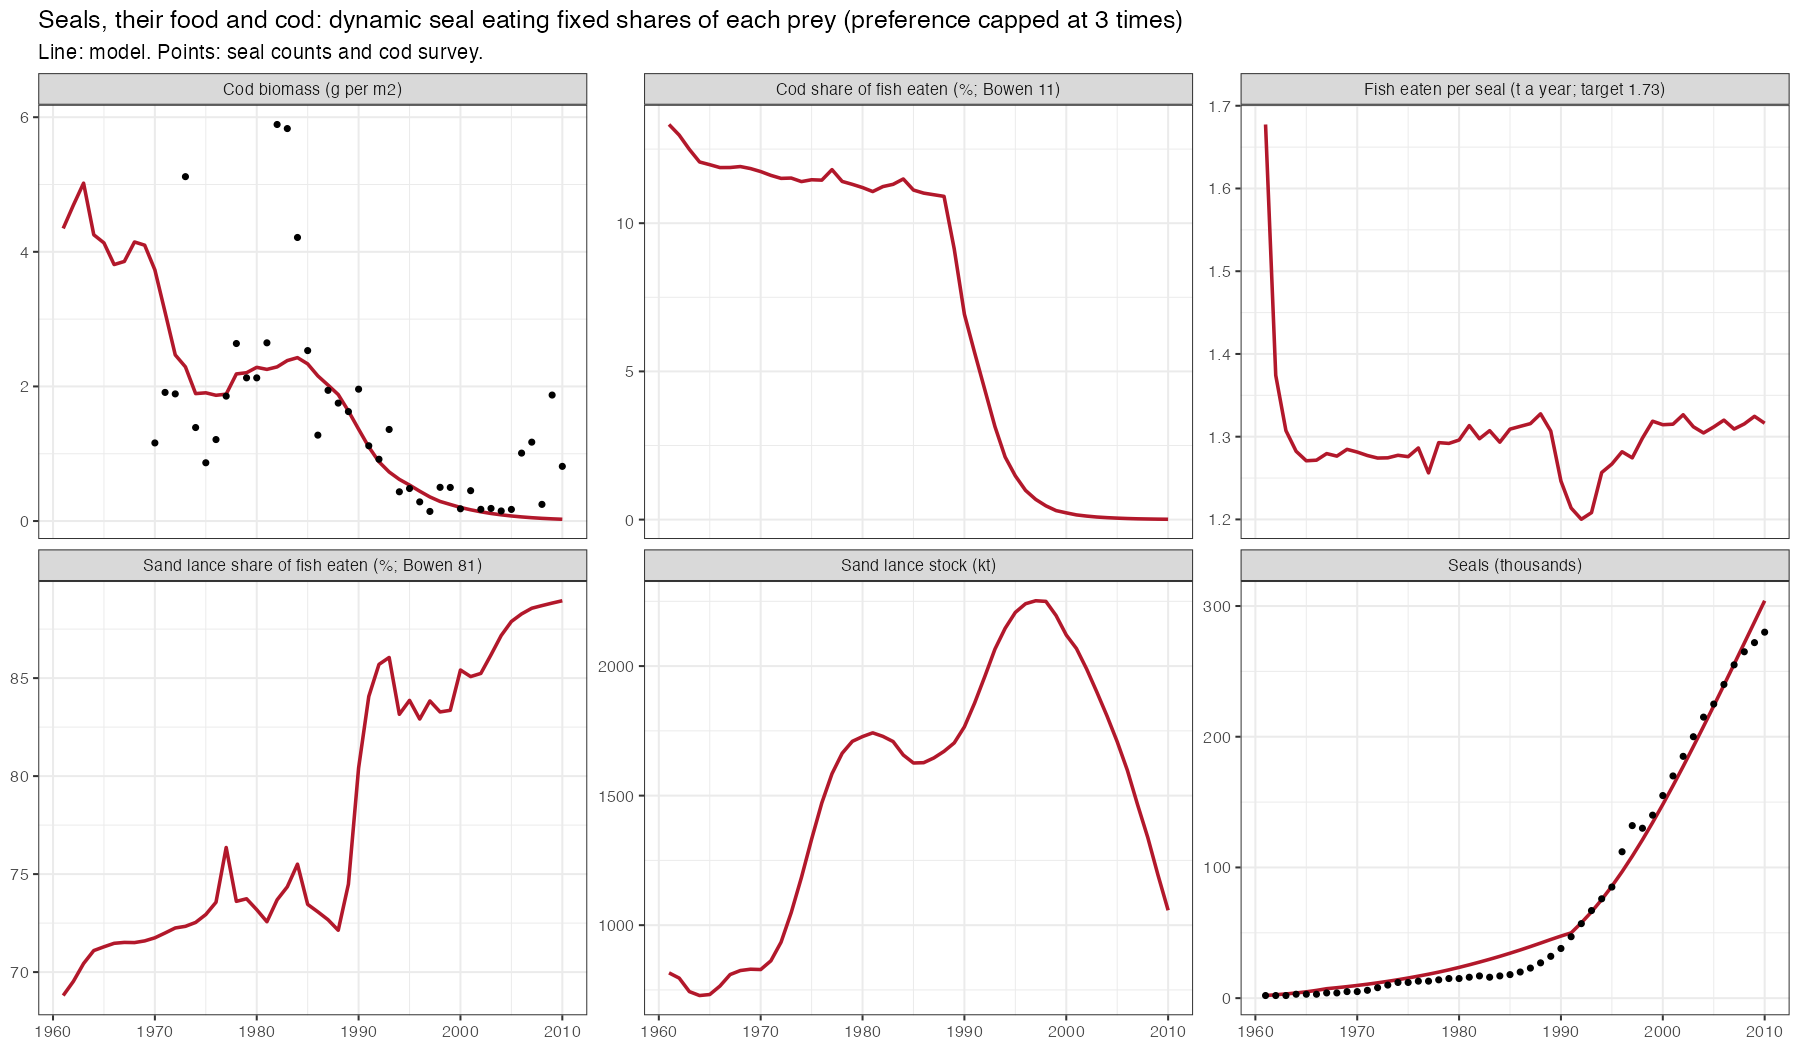
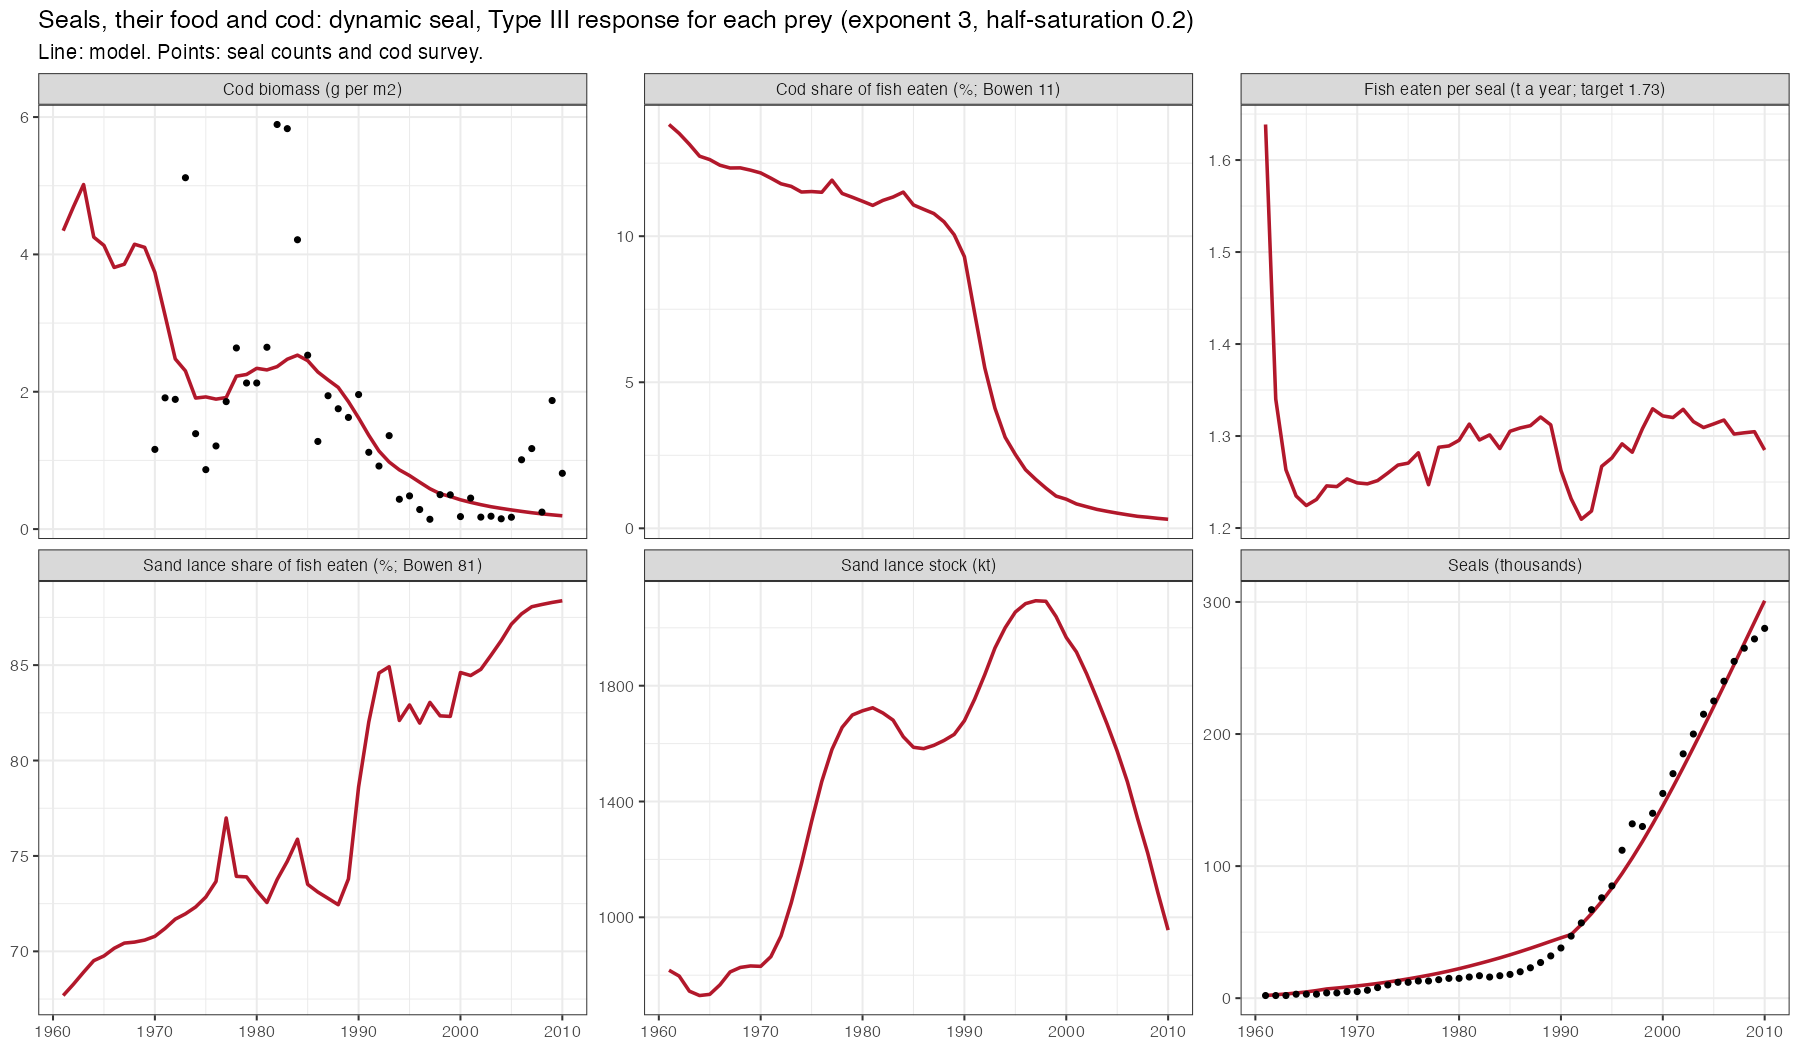
Add a Type III feeding response for each seal prey

diff --git a/HANDOVER_2026-11-26.md b/HANDOVER_2026-11-26.md
@@ -2206,6 +2206,53 @@ gives the relief but not the squeeze.
 
 Figures `dynseal_bowen_*.png` are from the cap 3 run.
 
+## 35. A Type III response for each prey
+
+Julia asked whether fixed shares is a Type II response, then about Type III.
+Fixed shares with a cap is a crude Type II for each prey on its own (flat
+intake above a threshold, proportional below; the cap sets the threshold). It
+is not the multispecies Type II of mizer and of Smout's "Type 2" model, where
+saturation is shared across prey and diet shares stay proportional.
+
+`seal_prey_switching.R` now has a Type III for each prey
+(`PREY_HALF_SATURATION` in script 9): intake of a prey follows
+N^m / (K^m + N^m), with K given as a fraction of the prey's availability in
+the calibrated state, the same for all prey. Seals take a rising fraction of
+a prey as it falls towards about K, and a falling fraction below that.
+Saturation prey by prey is a departure from Smout et al., and K is not
+measured.
+
+Cod biomass, kt (same base, calibration and seal rates as section 34):
+
+| | 1985 | 1990 | 1993 | 1995 | 2000 | 2005 | 2010 |
+|---|---|---|---|---|---|---|---|
+| survey | 391 | 229 | 132 | 59 | 55 | 65 | 175 |
+| m 1.5, K 0.1 | 359 | 237 | 130 | 92 | 32 | 11 | 4 |
+| m 1.5, K 0.2 | 381 | 282 | 198 | 160 | 68 | 27 | 10 |
+| m 2, K 0.1 | 351 | 219 | 113 | 78 | 27 | 10 | 4 |
+| m 2, K 0.2 | 374 | 268 | 178 | 143 | 65 | 31 | 14 |
+| m 3, K 0.1 | 344 | 201 | 98 | 68 | 26 | 13 | 8 |
+| m 3, K 0.2 | 359 | 237 | 143 | 114 | 63 | 41 | 28 |
+| m 3, K 0.3 | 389 | 292 | 217 | 195 | 127 | 89 | 62 |
+
+- With Smout's exponent of 1.5 the collapse is reproduced (K 0.1) but the
+  relief at low abundance is too weak: seal numbers more than triple between
+  1995 and 2010 and cod is still driven out.
+- With an exponent of 3 the decline flattens: seal mortality on young cod
+  levels at about 1.5 a year from 1995 (K 0.2), where the other forms keep
+  climbing. Cod no longer heads for extinction, but it does not recover as
+  the survey does after 2005.
+- A smaller K gives a deeper and faster collapse; a larger exponent gives a
+  firmer floor. Neither value is measured, and the pair that looks best
+  depends on which years one looks at.
+- Yellowtail is still driven very low after 2000 in every version (1-3 kt by
+  2010 against a surveyed 31 kt), and plaice still does not fall before 2000.
+- Cod's share of the 1993-98 diet is 1-4% in all of them, against 13%
+  measured, because the model's cod is by then far scarcer than the diet
+  implies.
+
+Figures `dynseal_bowen_*.png` are from m 3, K 0.2.
+
 ## Commits on `julia`
 
 ```

diff --git a/dynamic_seal_trial/README.md b/dynamic_seal_trial/README.md
@@ -76,6 +76,8 @@ Rscript dynamic_seal_trial/plot_seal_on_bowen_diet.R
   `SWITCHING_EXPONENT` tries another exponent. `SWITCHING_EXPONENT=0` makes
   seals eat fixed shares of each prey (handover section 34); use it with
   `SWITCHING_LARGEST_MULTIPLIER` (for example 3) and without script 10.
+  `PREY_HALF_SATURATION` (for example 0.2, with `SWITCHING_EXPONENT=3`) gives
+  a Type III response for each prey instead (handover section 35).
 - `10_match_seal_diet_to_both_periods.R`: repeats scripts 8, 5 and 9, moving
   the diet script 8 calibrates to in small bounded steps so the projected diet
   comes closer to the measured one in both periods, and finishes on the best
